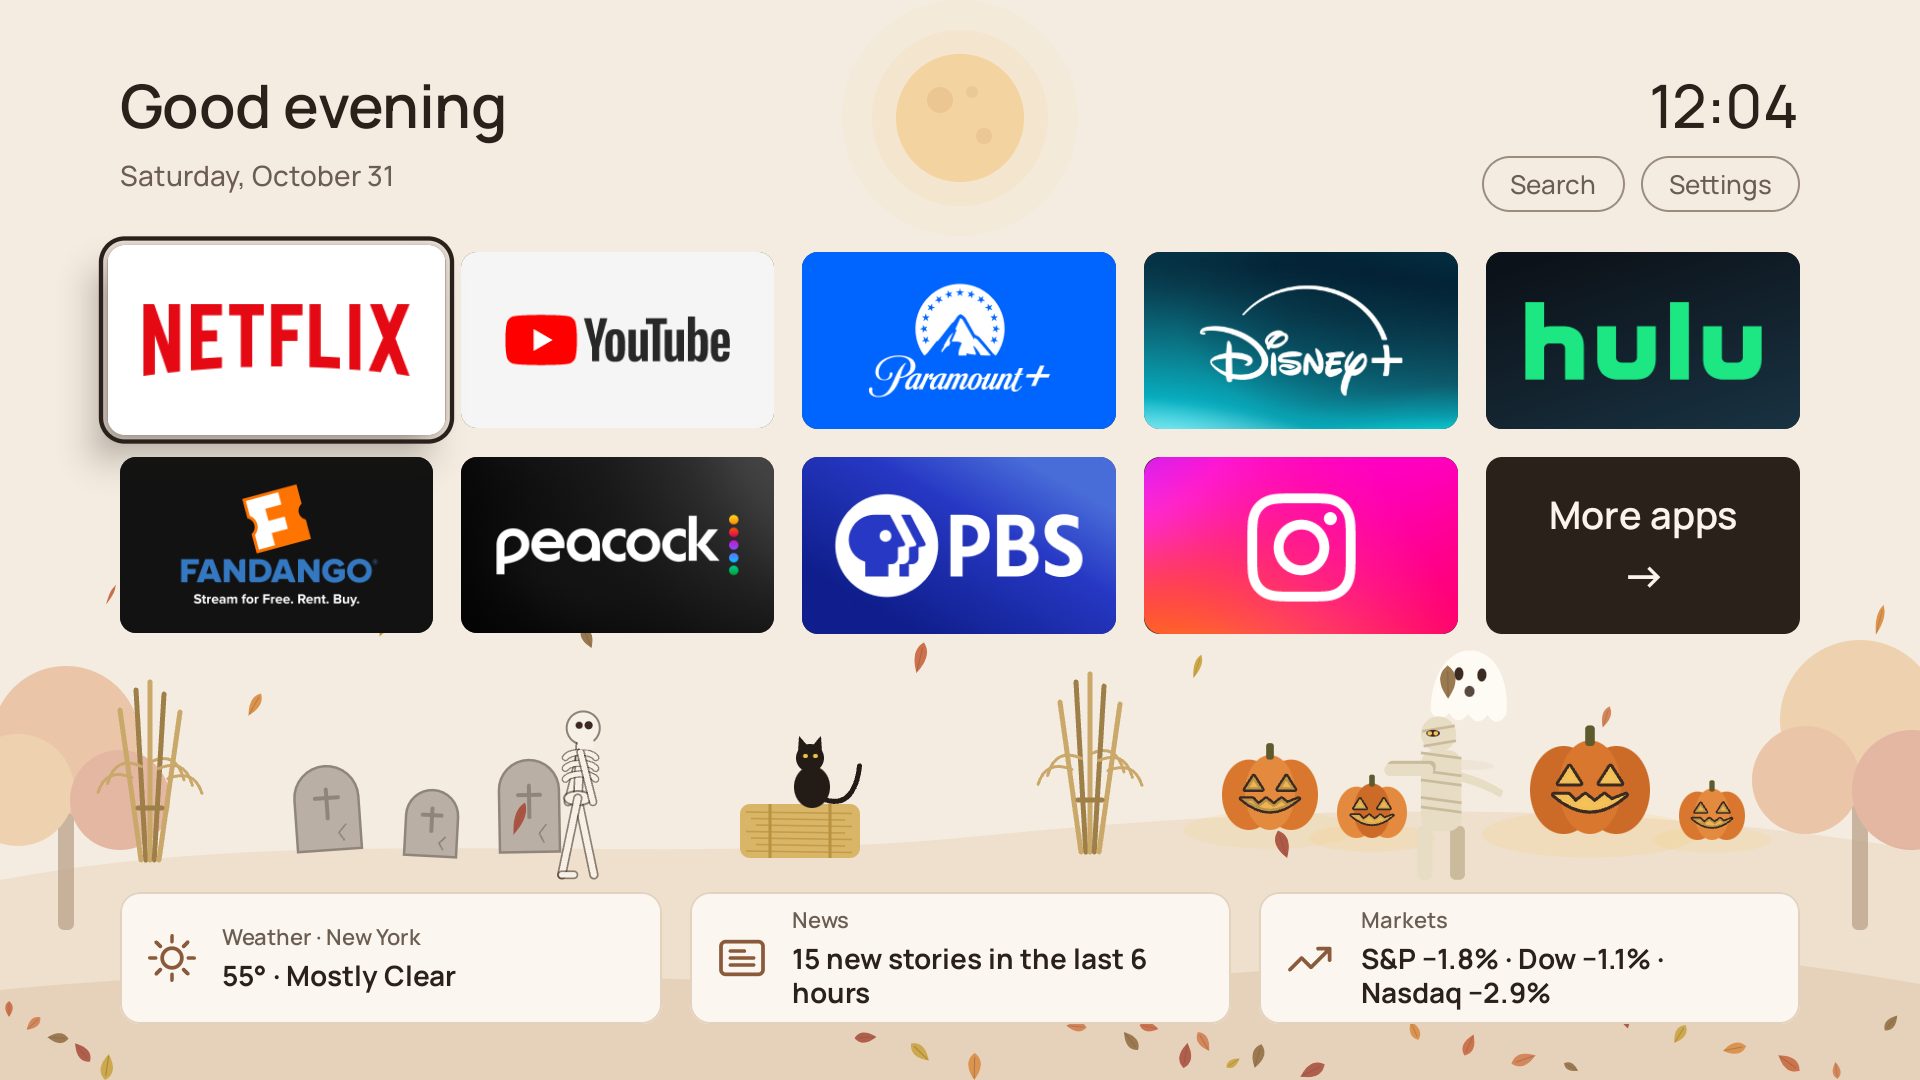
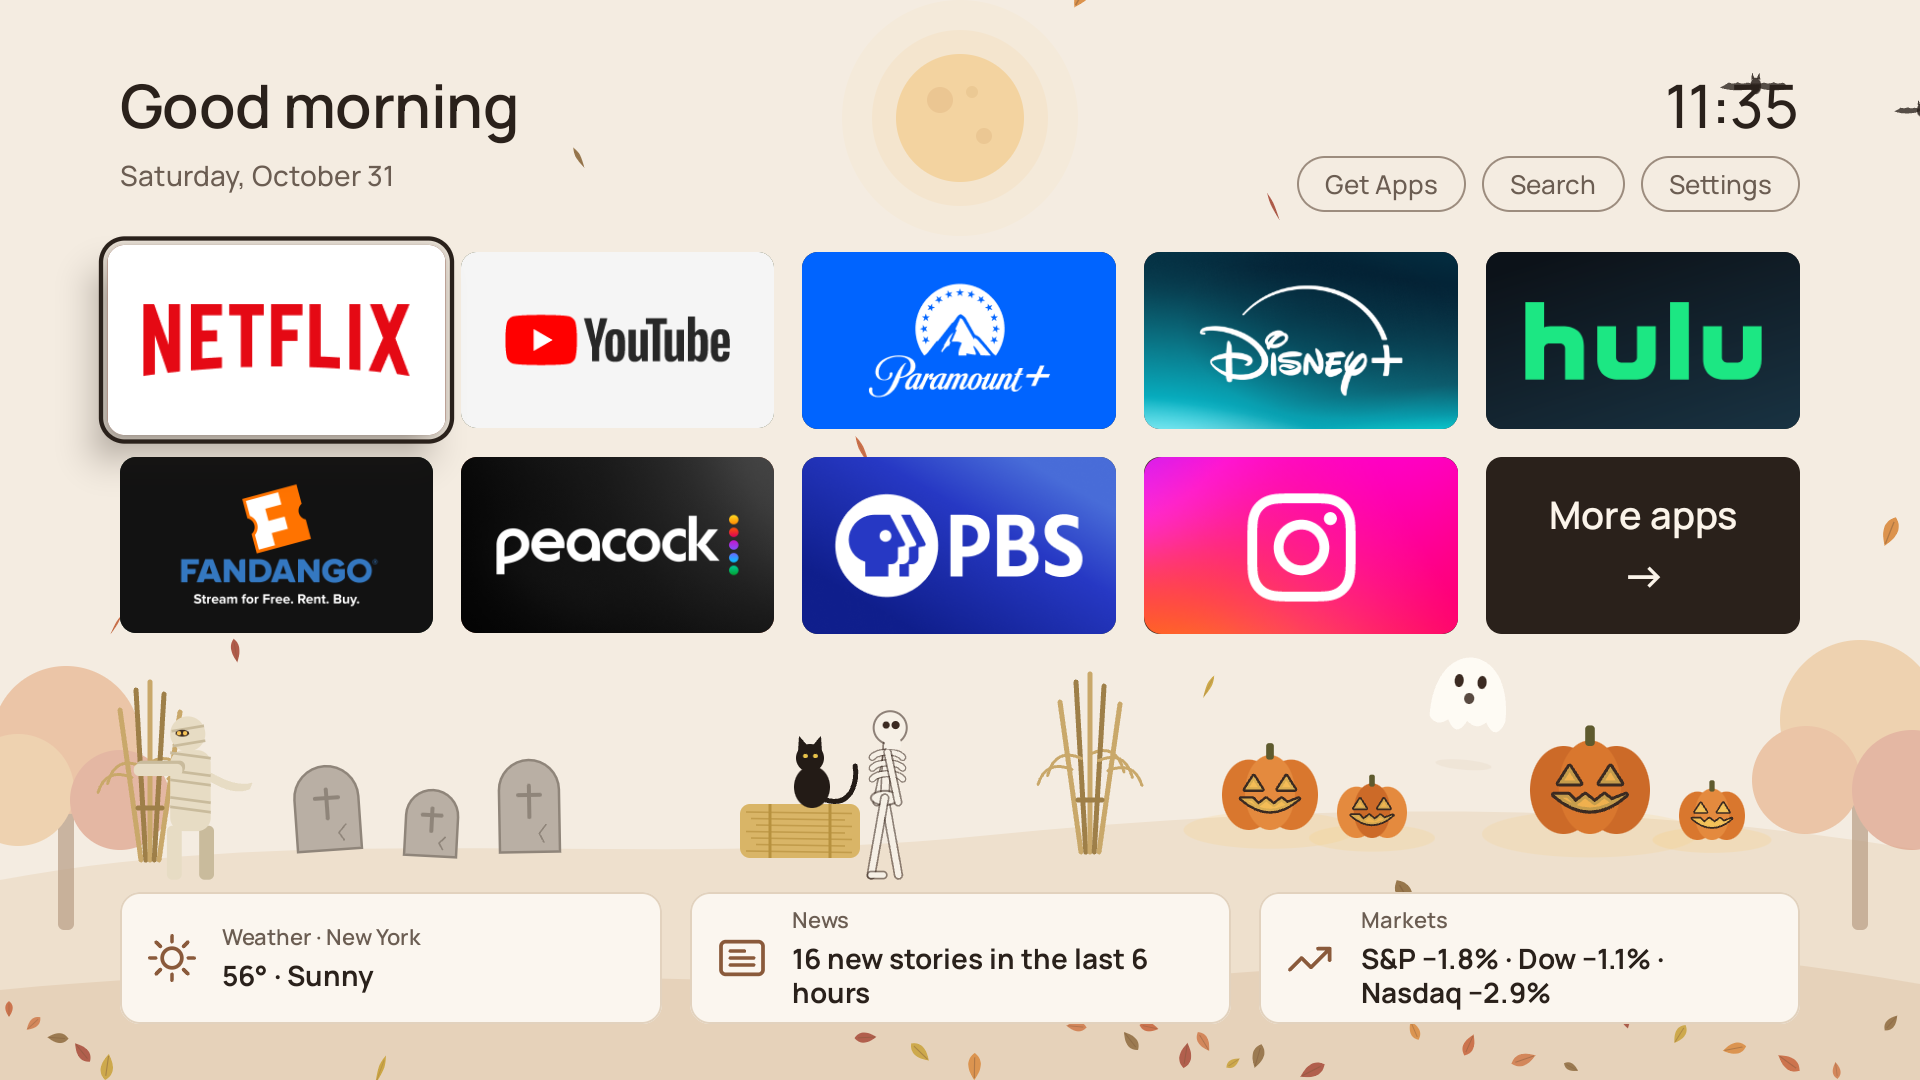
Add a screenshot gallery to the README
Eleven screens from a demo build set to New York: folders, Top 10,
search, weather and a forecast day, news and a story, markets and an
index detail. The home screenshot is refreshed with Get Apps.

diff --git a/README.md b/README.md
@@ -184,6 +184,19 @@ standby, and adb can't reach it there.
 Your API keys are baked into the app you build. That's fine for your own TV, but don't
 share your APK. Watch history, the YouTube sign-in and your stock list stay on the TV.
 
+## Screenshots
+
+All from the onn stick, in the fall theme. Select one to see it full size.
+
+<table>
+<tr><td width="50%"><a href="docs/screenshots/folder-disney.jpg"><img src="docs/screenshots/folder-disney.jpg" alt="A service's folder: open the app, or pick a show to open it inside the app."></a><br><sub>A service's folder: open the app, or pick a show to open it inside the app.</sub></td><td width="50%"><a href="docs/screenshots/folder-popular.jpg"><img src="docs/screenshots/folder-popular.jpg" alt="Popular shows and movies on the service, ranked."></a><br><sub>Popular shows and movies on the service, ranked.</sub></td></tr>
+<tr><td width="50%"><a href="docs/screenshots/folder-top10.jpg"><img src="docs/screenshots/folder-top10.jpg" alt="Netflix's own Top 10."></a><br><sub>Netflix's own Top 10.</sub></td><td width="50%"><a href="docs/screenshots/folder-coming.jpg"><img src="docs/screenshots/folder-coming.jpg" alt="New seasons on the way, with their dates."></a><br><sub>New seasons on the way, with their dates.</sub></td></tr>
+<tr><td width="50%"><a href="docs/screenshots/search.jpg"><img src="docs/screenshots/search.jpg" alt="Search by typing or voice; each result says where it streams."></a><br><sub>Search by typing or voice; each result says where it streams.</sub></td><td width="50%"><a href="docs/screenshots/weather.jpg"><img src="docs/screenshots/weather.jpg" alt="Weather: now, alerts and six days."></a><br><sub>Weather: now, alerts and six days.</sub></td></tr>
+<tr><td width="50%"><a href="docs/screenshots/weather-day.jpg"><img src="docs/screenshots/weather-day.jpg" alt="One day in full; Left and Right step through the days."></a><br><sub>One day in full; Left and Right step through the days.</sub></td><td width="50%"><a href="docs/screenshots/news.jpg"><img src="docs/screenshots/news.jpg" alt="News, ranked by how many newsrooms cover each story."></a><br><sub>News, ranked by how many newsrooms cover each story.</sub></td></tr>
+<tr><td width="50%"><a href="docs/screenshots/news-story.jpg"><img src="docs/screenshots/news-story.jpg" alt="A story in full."></a><br><sub>A story in full.</sub></td><td width="50%"><a href="docs/screenshots/markets.jpg"><img src="docs/screenshots/markets.jpg" alt="Markets: the major indexes, then your own stocks."></a><br><sub>Markets: the major indexes, then your own stocks.</sub></td></tr>
+<tr><td width="50%"><a href="docs/screenshots/market-detail.jpg"><img src="docs/screenshots/market-detail.jpg" alt="A market's day, its year and how it's done lately."></a><br><sub>A market's day, its year and how it's done lately.</sub></td><td></td></tr>
+</table>
+
 ## License
 
 SimpleTV is released under the MIT License; see `LICENSE`. The Manrope typeface it
